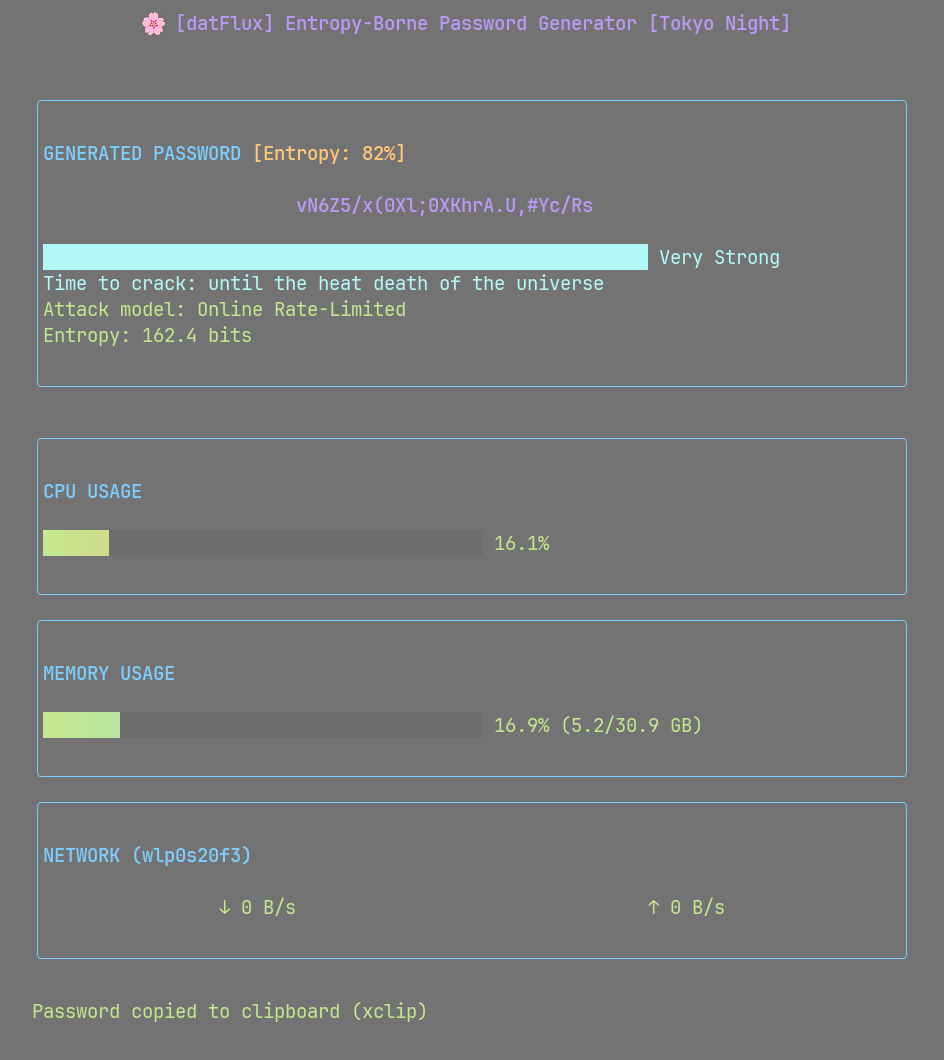
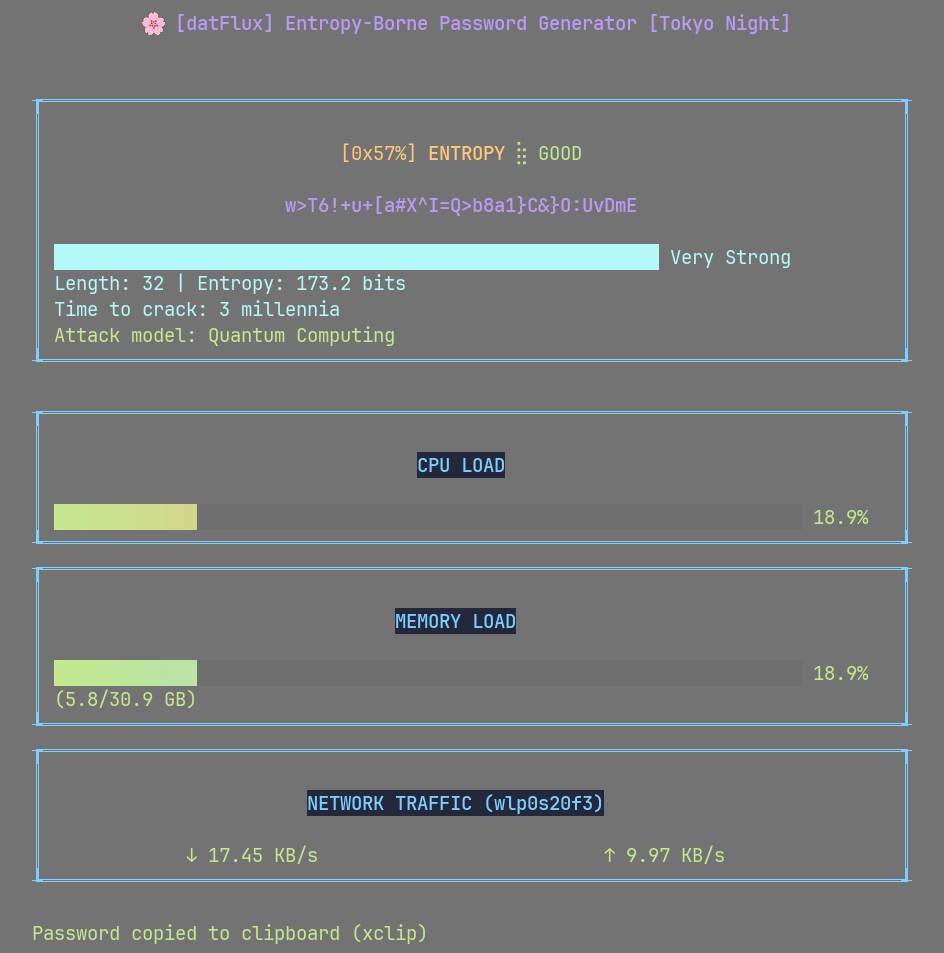
feat: enhance UI with modernized components and visualizations
- Implement technical entropy gauge with 8-level status indicators
- Add hexadecimal entropy quality display with color-coded status readouts
- Maintain visual continuity between entropy quality display across animation states
- Implement precise technical aesthetic to align with the security focus

This update enhances both the technical functionality and visual coherence of the application, providing more detailed entropy metrics while maintaining a clean interface.

diff --git a/internal/ui/views.go b/internal/ui/views.go
@@ -36,6 +36,67 @@ func styledHeader(text string, width int) string {
 	return header
 }
 
+func renderHexQuality(quality float64) string {
+	percentage := int(quality * 100)
+
+	// percentage 2 hex
+	hexValue := fmt.Sprintf("%02X", percentage)
+
+	var statusStyle lipgloss.Style
+	var statusText string
+	var statusIndicator string
+
+	switch {
+	case percentage < 13:
+		statusText = "VOID"
+		statusIndicator = "⣀" // empty gauge
+		statusStyle = DangerStyle
+	case percentage < 25:
+		statusText = "POOR"
+		statusIndicator = "⣀" // 25% filled gauge
+		statusStyle = DangerStyle
+	case percentage < 38:
+		statusText = "WEAK"
+		statusIndicator = "⣄" // 37.5% filled gauge
+		statusStyle = DangerStyle
+	case percentage < 50:
+		statusText = "FAIR"
+		statusIndicator = "⣤" // 50% filled gauge
+		statusStyle = WarningStyle
+	case percentage < 63:
+		statusText = "MILD"
+		statusIndicator = "⣦" // 62.5% filled gauge
+		statusStyle = WarningStyle
+	case percentage < 75:
+		statusText = "FIRM"
+		statusIndicator = "⣶" // 75% filled gauge
+		statusStyle = WarningStyle
+	case percentage < 88:
+		statusText = "GOOD"
+		statusIndicator = "⣷" // 87.5% filled gauge
+		statusStyle = StrongPwdStyle
+	default:
+		statusText = "PEAK"
+		statusIndicator = "⣿" // 100% filled gauge
+		statusStyle = VeryStrongPwdStyle
+	}
+
+	// hexadecimal timestamp
+	// timestamp := time.Now().UnixNano() % 0xFFFFFF
+	// timeHex := fmt.Sprintf("%06X", timestamp)
+
+	indicatorStyle := statusStyle
+	indicatorStyle = indicatorStyle.Faint(true)
+
+	return fmt.Sprintf("%s%s%s %s %s %s",
+		BracketStyle.Render("["),
+		HexStyle.Render("0x"+hexValue+"%"),
+		BracketStyle.Render("]"),
+		LabelStyle.Render("ENTROPY"),
+		indicatorStyle.Render(statusIndicator),
+		statusStyle.Render(statusText))
+}
+
 func renderCPUView(cpuUsage float64, progressBar progress.Model, width int) string {
 	var builder strings.Builder
 
@@ -104,9 +165,8 @@ func renderPasswordView(animation *PasswordAnimation, quality float64, width int
 	// builder.WriteString("\n")
 
 	// if !animation.IsAnimating {
-	qualityText := fmt.Sprintf("[Entropy: %.0f%%]", quality*100)
+	qualityText := renderHexQuality(quality)
 	qualityStyle := lipgloss.NewStyle().
-		Foreground(WarningStyle.GetForeground()).
 		Align(lipgloss.Center).
 		Width(width - 4)
 	builder.WriteString(qualityStyle.Render(qualityText))

diff --git a/internal/ui/styles.go b/internal/ui/styles.go
@@ -26,6 +26,9 @@ var (
 	StrongPwdStyle     lipgloss.Style
 	VeryStrongPwdStyle lipgloss.Style
 	LogoStyle          lipgloss.Style
+	HexStyle           lipgloss.Style
+	BracketStyle       lipgloss.Style
+	LabelStyle         lipgloss.Style
 
 	CPUProgress    progress.Model
 	MemoryProgress progress.Model
@@ -104,6 +107,16 @@ func InitializeStyles(theme Theme) {
 		Foreground(theme.Accent).
 		Bold(true)
 
+	HexStyle = lipgloss.NewStyle().
+		Foreground(theme.Warning)
+
+	BracketStyle = lipgloss.NewStyle().
+		Foreground(theme.Warning)
+
+	LabelStyle = lipgloss.NewStyle().
+		Foreground(theme.Warning).
+		Bold(true)
+
 	CPUProgress = progress.New(
 		progress.WithGradient(theme.StrongColorStr, theme.DangerStr),
 		progress.WithWidth(40),
@@ -145,7 +158,7 @@ dF== == == == == == == == == == == == == == == == == == == == == == == == == == 
 ||        888888          ||     datflux          Launch interactive mode (TUI)   ||
 ||        888888          ||     datflux now      Generate password immediately   ||
 ||    .d888888888888      ||     datflux now -p   Generate ultra-secure password  ||
-||   d88" 888888       == 🌸 == == == == == == == == == == == == == == == == == ==
+||   d88" 888888          🌸 == == == == == == == == == == == == == == == == == ==
 ||   888  888888          ||   OPTIONS:                                           ||
 ||   Y88b 888888          ||     --paranoia, -p          Enable paranoia mode     ||
 ||    "Y88888888          ||     --help, -h, help        Show help                ||
